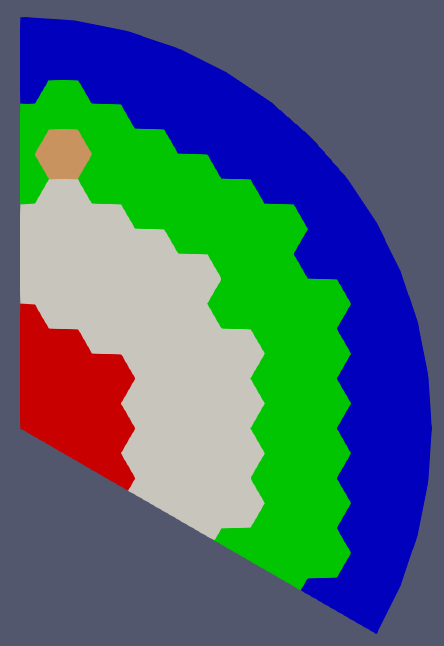
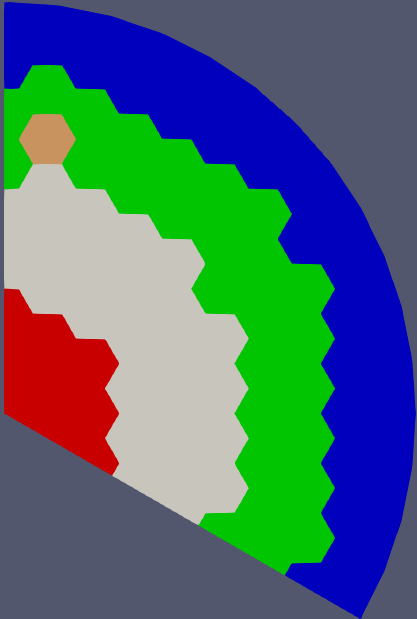
changes in legends generator and axial power distribution plot

diff --git a/benchmark-ph1ex1/3D-model/postprocessing.py b/benchmark-ph1ex1/3D-model/postprocessing.py
@@ -8,6 +8,7 @@ from matplotlib.patches import RegularPolygon
 from matplotlib.collections import PatchCollection
 from matplotlib.pyplot import gca
 from matplotlib.axes import Axes
+import matplotlib.ticker as ticker
 
 
 def geo_label():
@@ -28,15 +29,37 @@ def geo_label():
     fuel = mpatches.Patch(color=(0.87, 0.87, 0.87), label='Fuel')
     oref1 = mpatches.Patch(color=(0, 1., 0.), label='Outer reflector 1')
     oref2 = mpatches.Patch(color=(0., 0., 1.), label='Outer reflector 2')
+
     crod = mpatches.Patch(color=(0.88, 0.65, 0.34), label='Control Rod')
 
     cwd = os.getcwd()
     fname = get_sample_data('%s/oecd-fullcore.png' % (cwd))
-    im = plt.imread(fname)
-    plt.imshow(im)
+    image = plt.imread(fname)
+    fig, ax = plt.subplots()
+    ax.imshow(image)
+
+    xlength = 2.97*np.cos(np.pi/6)
+    scalex = xlength/416
+    ticks_x = ticker.FuncFormatter(lambda x, pos: '{0:g}'.format(x*scalex))
+    ax.xaxis.set_major_formatter(ticks_x)
+    # xticks = np.array([0., 0.6, 0.9, 1.0])/scalex
+    xticks = np.arange(0, np.floor(xlength)+1)/scalex
+    ax.set_xticks(xticks)
+    ax.tick_params(axis="x", labelsize=12)
+
+    ylength = 2.97 + 2.97*np.sin(np.pi/6)
+    scaley = ylength/618
+    ticks_y = ticker.FuncFormatter(lambda x, pos: '{0:g}'.format(x*scaley))
+    ax.yaxis.set_major_formatter(ticks_y)
+    # yticks = np.array([0., 0.6, 0.9, 1.0])/scaley
+    yticks = np.arange(0, np.floor(ylength)+1)/scaley
+    ax.set_yticks(yticks)
+    ax.tick_params(axis="y", labelsize=12)
+
+    ax.set_xlabel('x [m]', fontsize=12)
+    ax.set_ylabel('y [m]', fontsize=12)
     plt.legend(handles=[iref, fuel, oref1, oref2, crod],
                loc="upper left", bbox_to_anchor=(1.0, 1.0), fancybox=True)
-    plt.axis('off')
     plt.savefig("oecd-fullcore-legend", dpi=300, bbox_inches="tight")
 
 
@@ -103,8 +126,13 @@ def plot_axial_power_distribution(filename, save):
 
     plt.figure()
     plt.plot(z, power)
-    plt.ylabel(r'Power density [W/cm$^3$]')
-    plt.xlabel('Axial distance from bottom of active core [cm]')
+    plt.ylim(top=8)
+
+    plt.xticks(fontsize=12)
+    plt.yticks(fontsize=12)
+    plt.ylabel(r'Power density [W/cm$^3$]', fontsize=12)
+    plt.xlabel('Axial distance from bottom of active core [cm]', fontsize=12)
+    plt.grid()
     plt.savefig(save, dpi=300, bbox_inches="tight")
 
 
@@ -179,7 +207,6 @@ def plot_radial_power_distribution(filename, save):
     cbar.ax.set_ylabel(r'Power density [W/cm$^3$]')
 
     for i in range(22):
-        # val = "{:.2e}".format(power[i])
         plt.text(x=coord[i][0]-F/1.5, y=coord[i][1]-3.5,
                  s=np.round(power[i], 2), fontsize=12, color='w')
 
